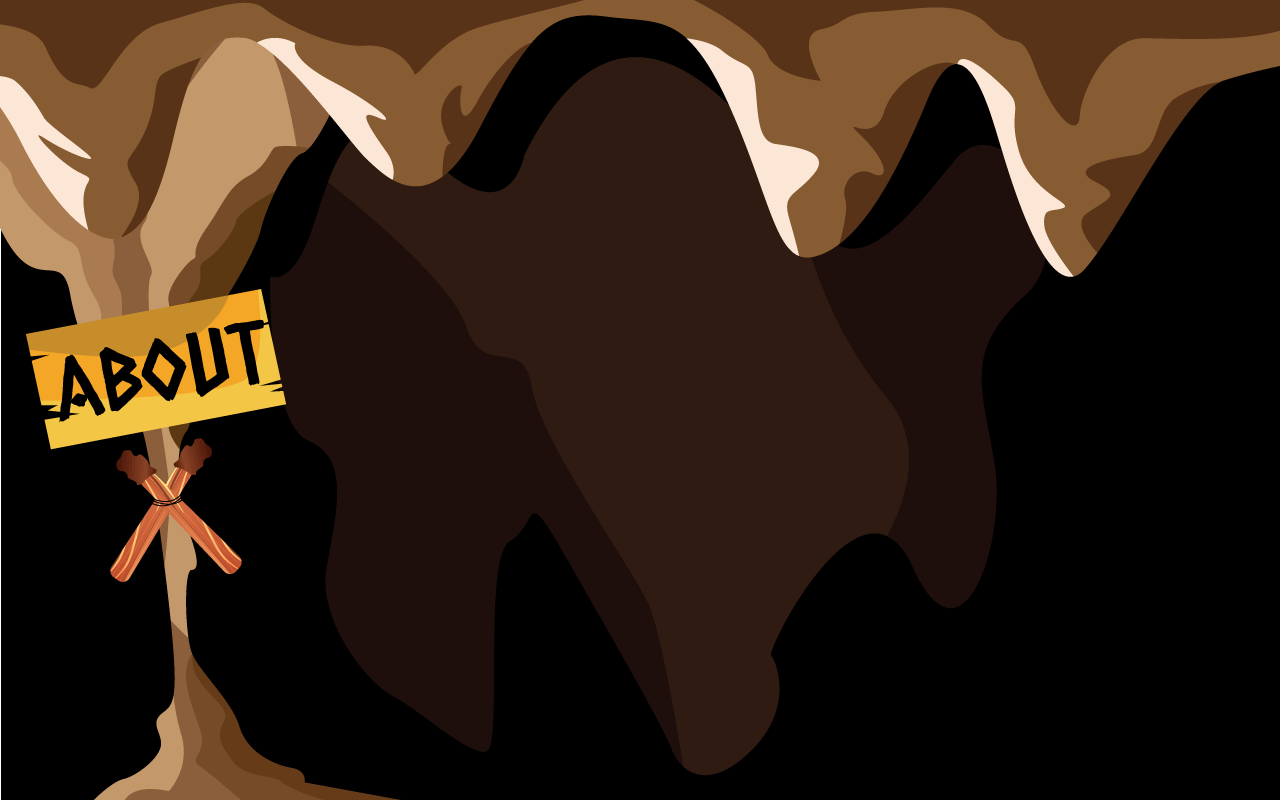
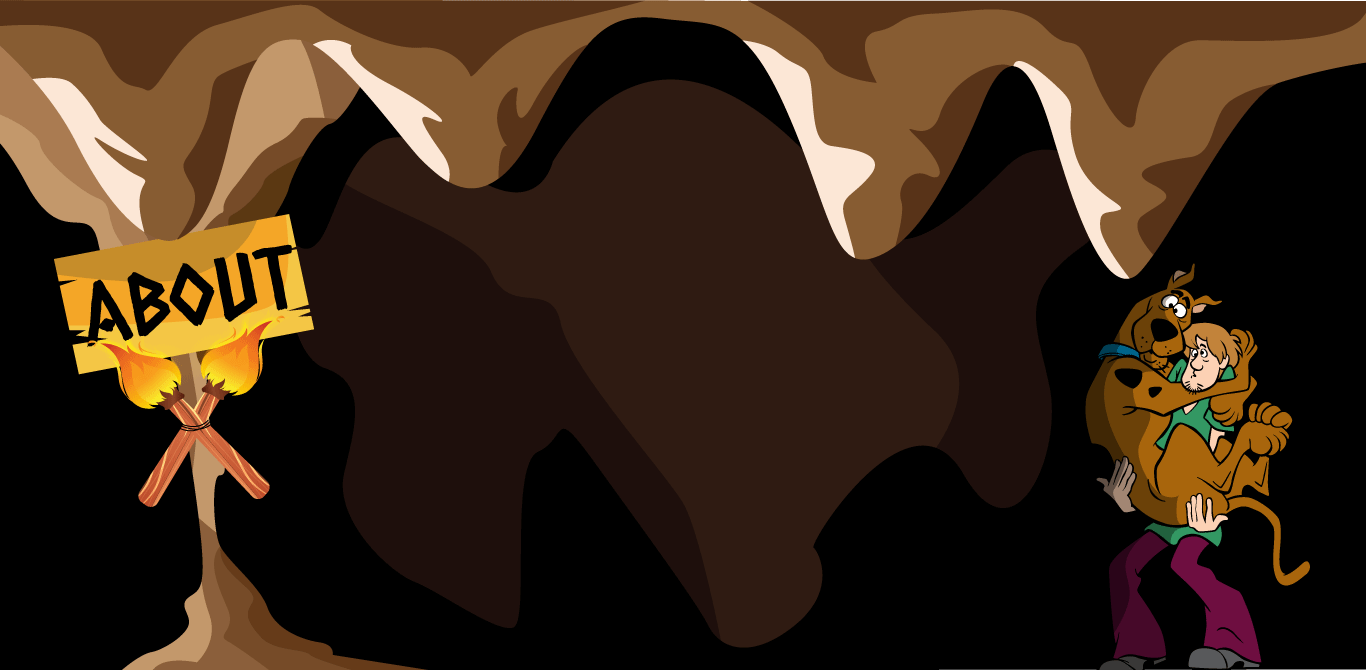
linked pages

diff --git a/index.html b/index.html
@@ -6,22 +6,17 @@
     <meta http-equiv="X-UA-Compatible" content="IE=edge,chrome=1">
     <meta name="viewport" content="width=device-width, initial-scale=1.0">
     <title>ZEALICON - Let's Rewind...</title>
-    <link rel="stylesheet" href="https://maxcdn.bootstrapcdn.com/bootstrap/3.3.7/css/bootstrap.min.css" >
-    <link rel="stylesheet" href="https://maxcdn.bootstrapcdn.com/bootstrap/3.3.7/css/bootstrap-theme.min.css" >
-    <link href="http://maxcdn.bootstrapcdn.com/font-awesome/4.2.0/css/font-awesome.min.css" rel="stylesheet">
-    <link href="https://fonts.googleapis.com/css?family=Acme|Josefin+Sans|Josefin+Slab|Libre+Baskerville|Lobster|Lobster+Two|Montserrat|Nunito|Playfair+Display+SC|Poiret+One|Questrial|Quicksand|Roboto|Sanchez|Varela+Round" rel="stylesheet">
-    <link href="https://fonts.googleapis.com/css?family=Orbitron" rel="stylesheet">
-    <script src="https://ajax.googleapis.com/ajax/libs/jquery/3.1.1/jquery.min.js"></script>
-    <script src="https://maxcdn.bootstrapcdn.com/bootstrap/3.3.7/js/bootstrap.min.js" ></script>
     <link rel="stylesheet" type="text/css" href="css/animate.css"> 
     <link rel="stylesheet" type="text/css" href="css/loader.css">
 
     <link rel="stylesheet" type="text/css" href="css/index.css" />
     <link rel="stylesheet" type="text/css" href="css/about.css" />
+    <link rel="stylesheet" type="text/css" href="css/map.css">
 <link rel="stylesheet" type="text/css" href="http://csshake.surge.sh/csshake-slow.min.css">
 </head>
 
 <body>
+  <div id="pages">
     <div id="homepage">
         <div id="content">
                 <img class="img cloud1" src="images/cloud.png">
@@ -33,6 +28,7 @@
             
             <div id="view">
                 <img class ="img island" src="images/island.png" />
+                <a href="#" class="mapbtn"><img class ="img home-map" src="images/mapwithelements/home-map.png" /></a>
             </div>
 
                 <img class ="img grass1" src="images/grass-min-min.png" />
@@ -45,34 +41,54 @@
 
     <div id="aboutpage">
         <a href="#" class="abclose" style="position: absolute; top: 0;z-index: 10000">close</a>
-        <img class ="img aboutbg" src="images/aboutpage/about-without-elements.png" />
+        <img class ="img aboutbg" src="images/aboutpage/about.png" />
         <img class ="img about-scooby" src="http://i.imgur.com/8I5rwNn.png" />
          
         <p>
             'ZEALICON' is the Annual Techno-Culural Fest, organised by JSS Academy Of Technical Education, Noida. This year, ZEALICON turns 10, with more exciting events and loads of prizes to be given away. The fest is scheduled to be organised from 14th March 2018 - 17th March 2018. Further details will be added soon, keep visiting this page to stay updated on ZEALICON'18.
         </p>
     </div>
+    <div id = "map">
+      <div id="myNav" class="overlay">
+        <a href="javascript:void(0)" class="closebtn">&times;</a>
+        <div class="overlay-content">
+          <a href="#" class="map-homep map-btn">Home</a>
+          <a href="#" class="map-homep map-btn">About</a>
+          <a href="#" class="map-homep map-btn">Events</a>
+          <a href="#" class="map-homep map-btn">Sponsors</a>
+          <a href="#" class="map-homep map-btn">Schedule</a>
+          <a href="#" class="map-homep map-btn">team</a>
+          <a href="#" class="map-homep map-btn">Contact</a>
+        </div>
+      </div>
+    </div>
+
+
+  </div>
+
+
     <div  id="ball-loader">
-  <h1 class="loading">LET'S REWIND</h1>
-  <div class="ball-loader">
-     <div class="ball-loader-ball ball1"></div>
-     <div class="ball-loader-ball ball2"></div>
-     <div class="ball-loader-ball ball3"></div>
-  </div>
-</div>
-<div id="time_machine">
-  <div id="Top_counter">
-   <div class="counter_1" data-count="2001">2018</div>
-   <div class="counter_2" data-count="1990">2000</div>
-  </div>
-  <div id="mySpaceship"></div>
-</div>
-<div id="whiteScreen">
-  <p id="welcome">Welcome to 90's</p>
-</div>
-<script type="text/javascript" src="js/loader.js"></script>
+      <h1 class="loading">LET'S REWIND</h1>
+      <div class="ball-loader">
+        <div class="ball-loader-ball ball1"></div>
+        <div class="ball-loader-ball ball2"></div>
+        <div class="ball-loader-ball ball3"></div>
+      </div>
+    </div>
+    <div id="time_machine">
+      <div id="Top_counter">
+        <div class="counter_1" data-count="2001">2018</div>
+        <div class="counter_2" data-count="1990">2000</div>
+      </div>
+      <div id="mySpaceship"></div>
+    </div>
+    <div id="whiteScreen">
+      <p id="welcome">Welcome to 90's</p>
+    </div>
     <script type="text/javascript" src="js/jquery.js"></script>
+    <script type="text/javascript" src="js/loader.js"></script>
     <script type="text/javascript" src="js/main.js"></script>
+    <script type="text/javascript" src="js/map.js"></script>
 </body> 
 
 </html>

diff --git a/js/loader.js b/js/loader.js
@@ -1,4 +1,5 @@
 $(window).on("load",function(){
+    $('.counter_2').hide();
     setTimeout(function(){
     		$("#ball-loader").css({
     			display: "none"
@@ -11,69 +12,73 @@ $(window).on("load",function(){
     		});
     }, 3000); 
     $(function(){
-  $('.counter_1').each(function() {
-      var $this = $(this),
-      countTo = $this.attr('data-count');
-  
-     $({ countNum: $this.text()}).delay(4000).animate({
-        countNum: countTo
-      },
-
-     {
+      $('.counter_1').each(function() {
+        var $this = $(this),
+        countTo = $this.attr('data-count');
     
-        duration: 3000,
-        easing:'linear',
-        step: function() {
-        $this.text(Math.floor(this.countNum));
-     },
-        complete: function() {
-        $this.text(this.countNum);
-        $('.counter_1').hide();
-        $('.counter_2').each(function() {
-           var $this = $(this),
-           countTo = $this.attr('data-count');
-  
-           $({ countNum: $this.text()}).delay(250).animate({
-             countNum: countTo
-           },
+       $({ countNum: $this.text()}).delay(4000).animate({
+          countNum: countTo
+        },
 
-           {
+       {
+      
+          duration: 3000,
+          easing:'linear',
+          step: function() {
+          $this.text(Math.floor(this.countNum));
+       },
+          complete: function() {
+          $('.counter_2').show();
+          $this.text(this.countNum);
+          $('.counter_1').hide();
+          $('.counter_2').each(function() {
+             var $this = $(this),
+             countTo = $this.attr('data-count');
     
-              duration: 8000,
-              easing:'linear',
-              step: function() {
-              $this.text(Math.floor(this.countNum));
-           },
-              complete: function() {
-              $this.text(this.countNum);
-              setTimeout(function(){
-                 $("#whiteScreen").css({
-                   visibility: "visible"
-                 });
-                 $("#mySpaceship").css({
-                   display: "none"
-                 });
-                 $("#Top_counter").css({
-                   display: "none"
-                 });
-              },3000);
-              setTimeout(function(){
-                 $("#whiteScreen").css({
-                   visibility: "hidden"
-                 });
-                 $("#mySpaceship").css({
-                   display: "none"
-                 });
-                 $("#Top_counter").css({
-                   display: "none"
-                 });
-              },6000);
-           }
+             $({ countNum: $this.text()}).delay(250).animate({
+               countNum: countTo
+             },
 
+             {
+      
+                duration: 5000,
+                easing:'linear',
+                step: function() {
+                $this.text(Math.floor(this.countNum));
+             },
+                complete: function() {
+                $this.text(this.countNum);
+                setTimeout(function(){
+                   $("#whiteScreen").css({
+                     visibility: "visible"
+                   });
+                   $("#mySpaceship").css({
+                     display: "none"
+                   });
+                   $("#Top_counter").css({
+                     display: "none"
+                   });
+                },3000);
+                setTimeout(function(){
+                   $("#whiteScreen").css({
+                     visibility: "hidden"
+                   });
+                   $("#mySpaceship").css({
+                     display: "none"
+                   });
+                   $("#Top_counter").css({
+                     display: "none"
+                   });
+                   $("#pages").css({
+                     display: "block"
+                   });
+                },6000);
+             }
+
+            });
+      
           });
-    
-        });
-      }
+        }
 
     });  
 });

diff --git a/css/loader.css b/css/loader.css
@@ -4,15 +4,9 @@
 }
 
 
-body {
-  font: 800% serif;
-  line-height: 1.5;
-  color: black;
+h1 {
   display: block;
   text-align: center;
-}
-
-h1 {
   font-weight: 600;
   line-height: 1.25;
   margin-top: 5em;
@@ -79,13 +73,13 @@ h1 {
 	z-index: 10010;
 }
 .counter_1,.counter_2{
+  text-align: center;
   font-size:50px;
-  width:200px;
-  border-radius: 50%;
+  position: absolute;
+  top: 50%;
+  left: 50%;
+  transform: translate(-50%,-50%);
   height:200px;
-  vertical-align: middle;
-  margin-left: 55rem;
-  margin-top: 31rem;
   transition: 0.5s ease-in;
 }
 #Top_counter {

diff --git a/css/map.css b/css/map.css
@@ -5,12 +5,17 @@ body {
 .overlay {
 	height: 0%;
     width: 100%;
-    position: fixed;
+    position: absolute;
     z-index: 1;
     top: 0;
     left: 0;
-    background: rgba(0,0,0,0.9);
+    bottom: 0;
+    right: 0;
+    background: url('../images/mapwithelements/map.png');
     overflow-y: hidden;
+    background-size: cover;
+    background-repeat: no-repeat;
+    background-attachment: fixed;
     transition: 0.5s;
 }
 

diff --git a/css/index.css b/css/index.css
@@ -12,6 +12,10 @@ body{
 	width: 100vw;
 }
 
+#pages {
+	display: none;
+}
+
 .abbtn {
 	position: absolute;
 	top: 0;
@@ -138,6 +142,12 @@ body{
 	animation-direction: normal;
 }
 
+
+.home-map {
+	position: absolute;
+	bottom: 50px;
+	right: 50px;
+}
 
 @keyframes cloud-move1 {
 	from {

diff --git a/js/map.js b/js/map.js
@@ -1,5 +1,5 @@
 $(document).ready(function(){
-	$(".button").click(function(){
+	$(".mapbtn").click(function(){
          $("#myNav").css({
         	height: "100%"
         });
